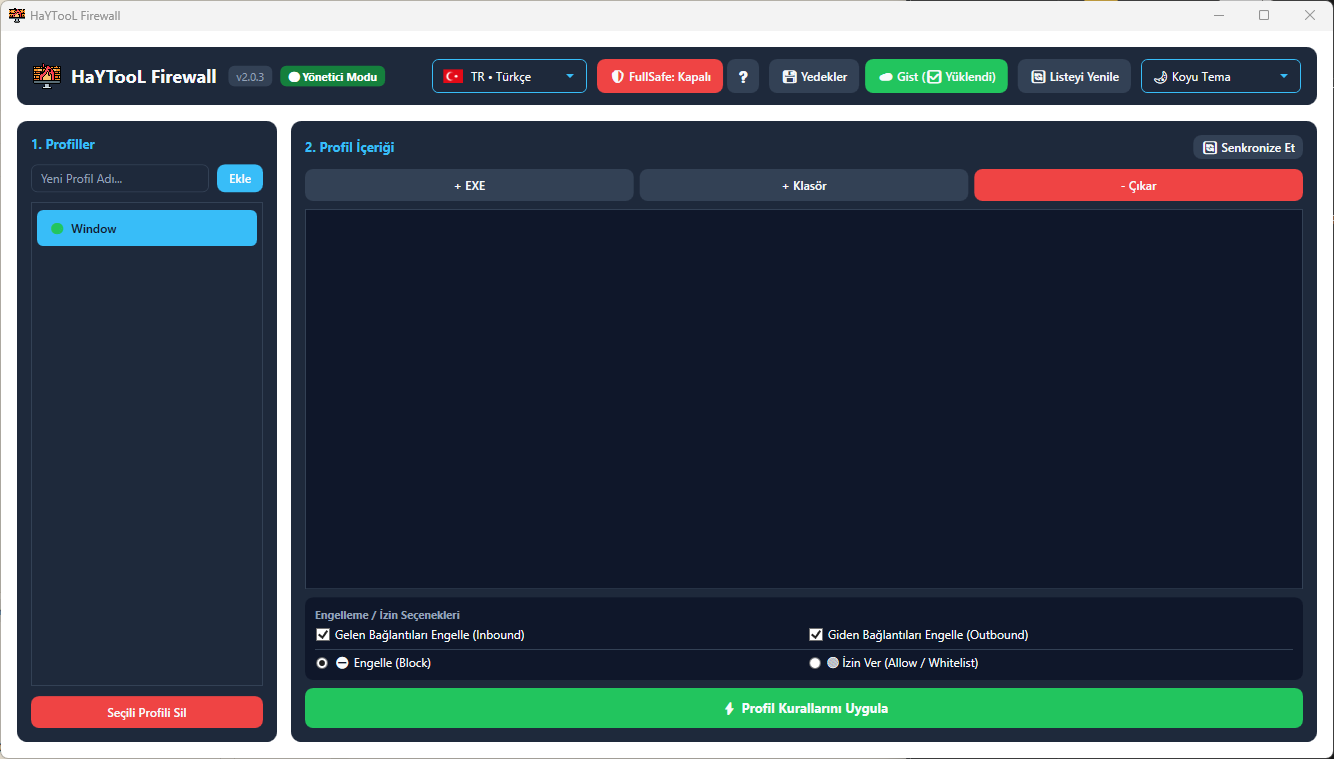
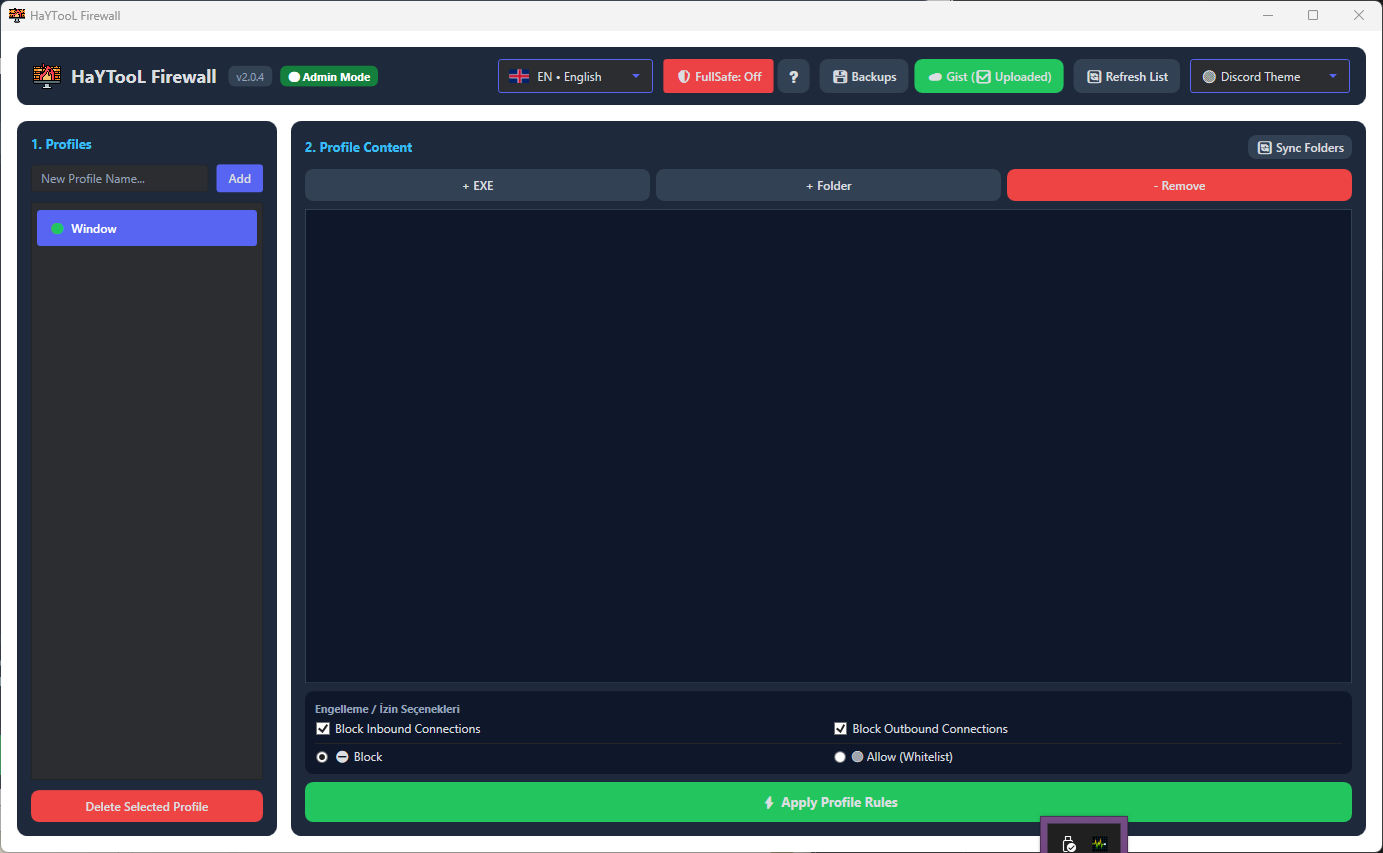
feat: release v2.0.5

Changed region(s): [[0.0, 0.0, 1.0, 1.0]]

diff --git a/UI/MainWindow.xaml b/UI/MainWindow.xaml
@@ -26,7 +26,7 @@
                     <Image Source="/Resources/firewall.png" Width="28" Height="28" Margin="0,0,10,0" VerticalAlignment="Center"/>
                     <TextBlock x:Name="txtHeaderTitle" Text="HaYTooL Firewall" FontWeight="Bold" FontSize="18" VerticalAlignment="Center"/>
                     <Border x:Name="bdVersion" Background="{StaticResource SecondaryBrush}" CornerRadius="6" Padding="8,3" Margin="12,0,0,0" VerticalAlignment="Center" Cursor="Hand" MouseLeftButtonDown="BdVersion_MouseLeftButtonDown" ToolTip="GitHub Depo Sayfasını Aç">
-                        <TextBlock Text="v2.0.4" FontSize="11" Foreground="{StaticResource MutedForegroundBrush}"/>
+                        <TextBlock Text="v2.0.5" FontSize="11" Foreground="{StaticResource MutedForegroundBrush}"/>
                     </Border>
                     <Border x:Name="bdAdminStatus" CornerRadius="6" Padding="8,3" Margin="8,0,0,0" VerticalAlignment="Center">
                         <TextBlock x:Name="txtAdminStatus" Text="🟢 Yönetici Modu" FontSize="11" FontWeight="Bold"/>
@@ -91,7 +91,7 @@
                         </Grid.ColumnDefinitions>
                         <Grid Grid.Column="0" Margin="0,0,8,0">
                             <TextBox x:Name="txtNewCategory" Padding="8,5"/>
-                            <TextBlock Text="Yeni Profil Adı..." IsHitTestVisible="False"
+                            <TextBlock x:Name="txtNewCategoryPlaceholder" Text="Yeni Profil Adı..." IsHitTestVisible="False"
                                        Foreground="{StaticResource MutedForegroundBrush}" Margin="10,0,0,0" VerticalAlignment="Center">
                                 <TextBlock.Style>
                                     <Style TargetType="TextBlock">

diff --git a/Core/I18n/LanguageManager.cs b/Core/I18n/LanguageManager.cs
@@ -100,7 +100,15 @@ namespace GuvenlikDuvarim.Core.I18n
                 ["WarnPanel2FoldersOnly"] = "Profil İçeriği alanı yalnızca Klasörleri kabul etmektedir.\n\n.EXE dosyalarını eklemek için lütfen sağ taraftaki '3. Aktif Engelleme Listesi' alanına sürükleyin.",
                 ["WarnPanel3ExesOnly"] = "Aktif Engelleme Listesi alanı yalnızca doğrudan .EXE dosyalarını kabul etmektedir.\n\nKlasör eklemek için lütfen sol taraftaki '2. Profil İçeriği' alanına sürükleyin.",
                 ["WarnFolderTitle"] = "Klasör Gerekli",
-                ["WarnExeTitle"] = "EXE Gerekli"
+                ["WarnExeTitle"] = "EXE Gerekli",
+
+                ["NewProfilePlaceholder"] = "Yeni Profil Adı...",
+                ["GistIdle"] = "☁ Gist",
+                ["GistUploading"] = "☁ Gist (⏳ Yükleniyor...)",
+                ["GistUploaded"] = "☁ Gist (✅ Yüklendi)",
+                ["GistError"] = "☁ Gist (❌ Hata)",
+                ["GistToolTipSuccess"] = "Otomatik Gist Yedeği Başarılı!\nGist ID: {0}",
+                ["GistToolTipError"] = "Gist Otomatik Yükleme Hatası:\n{0}"
             },
             ["EN"] = new()
             {
@@ -182,7 +190,15 @@ namespace GuvenlikDuvarim.Core.I18n
                 ["WarnPanel2FoldersOnly"] = "Profile Content area only accepts Folders.\n\nTo add .EXE files, please drag them to '3. Active Blocked Rules' on the right.",
                 ["WarnPanel3ExesOnly"] = "Active Blocked Rules area only accepts direct .EXE files.\n\nTo add folders, please drag them to '2. Profile Content' on the left.",
                 ["WarnFolderTitle"] = "Folder Required",
-                ["WarnExeTitle"] = "EXE Required"
+                ["WarnExeTitle"] = "EXE Required",
+
+                ["NewProfilePlaceholder"] = "New Profile Name...",
+                ["GistIdle"] = "☁ Gist",
+                ["GistUploading"] = "☁ Gist (⏳ Uploading...)",
+                ["GistUploaded"] = "☁ Gist (✅ Uploaded)",
+                ["GistError"] = "☁ Gist (❌ Error)",
+                ["GistToolTipSuccess"] = "Automatic Gist Backup Successful!\nGist ID: {0}",
+                ["GistToolTipError"] = "Gist Automatic Backup Error:\n{0}"
             },
             ["ES"] = new()
             {
@@ -263,7 +279,15 @@ namespace GuvenlikDuvarim.Core.I18n
                 ["WarnPanel2FoldersOnly"] = "El área de Contenido del Perfil solo acepta Carpetas.\n\nPara agregar archivos .EXE, arrástrelos a '3. Reglas Bloqueadas Activas' a la derecha.",
                 ["WarnPanel3ExesOnly"] = "El área de Reglas Bloqueadas Activas solo acepta archivos .EXE directos.\n\nPara agregar carpetas, arrástrelas a '2. Contenido del Perfil' a la izquierda.",
                 ["WarnFolderTitle"] = "Carpeta Requerida",
-                ["WarnExeTitle"] = "EXE Requerido"
+                ["WarnExeTitle"] = "EXE Requerido",
+
+                ["NewProfilePlaceholder"] = "Nuevo Nombre de Perfil...",
+                ["GistIdle"] = "☁ Gist",
+                ["GistUploading"] = "☁ Gist (⏳ Subiendo...)",
+                ["GistUploaded"] = "☁ Gist (✅ Subido)",
+                ["GistError"] = "☁ Gist (❌ Error)",
+                ["GistToolTipSuccess"] = "¡Copia de seguridad Gist exitosa!\nGist ID: {0}",
+                ["GistToolTipError"] = "Error de copia de seguridad Gist:\n{0}"
             },
             ["DE"] = new()
             {
@@ -339,7 +363,15 @@ namespace GuvenlikDuvarim.Core.I18n
                 ["ColDirection"] = "Richtung",
                 ["ColBackupName"] = "Sicherungsname",
                 ["ColBackupDate"] = "Datum / Zeit",
-                ["ColBackupSize"] = "Größe"
+                ["ColBackupSize"] = "Größe",
+
+                ["NewProfilePlaceholder"] = "Neuer Profilname...",
+                ["GistIdle"] = "☁ Gist",
+                ["GistUploading"] = "☁ Gist (⏳ Hochladen...)",
+                ["GistUploaded"] = "☁ Gist (✅ Hochgeladen)",
+                ["GistError"] = "☁ Gist (❌ Fehler)",
+                ["GistToolTipSuccess"] = "Automatisches Gist-Backup erfolgreich!\nGist ID: {0}",
+                ["GistToolTipError"] = "Fehler beim automatischen Gist-Backup:\n{0}"
             },
             ["PT"] = new()
             {
@@ -415,7 +447,15 @@ namespace GuvenlikDuvarim.Core.I18n
                 ["ColDirection"] = "Direção",
                 ["ColBackupName"] = "Nome do Backup",
                 ["ColBackupDate"] = "Data / Hora",
-                ["ColBackupSize"] = "Tamanho"
+                ["ColBackupSize"] = "Tamanho",
+
+                ["NewProfilePlaceholder"] = "Novo Nome de Perfil...",
+                ["GistIdle"] = "☁ Gist",
+                ["GistUploading"] = "☁ Gist (⏳ Enviando...)",
+                ["GistUploaded"] = "☁ Gist (✅ Enviado)",
+                ["GistError"] = "☁ Gist (❌ Erro)",
+                ["GistToolTipSuccess"] = "Backup automático no Gist bem-sucedido!\nGist ID: {0}",
+                ["GistToolTipError"] = "Erro de backup automático no Gist:\n{0}"
             },
             ["AR"] = new()
             {
@@ -460,6 +500,11 @@ namespace GuvenlikDuvarim.Core.I18n
                 ["CtxRuleDelete"] = "🗑 حذف القواعد المحددة",
                 ["CtxRuleOpenLocation"] = "📂 فتح موقع الملف/المجلد",
 
+                ["WarnPanel2FoldersOnly"] = "محتوى الملف الشخصي يقبل المجلدات فقط.",
+                ["WarnPanel3ExesOnly"] = "قواعد الحظر النشطة تقبل ملفات EXE فقط.",
+                ["WarnFolderTitle"] = "المجلد مطلوب",
+                ["WarnExeTitle"] = "EXE مطلوب",
+
                 ["GistTitle"] = "☁ النسخ الاحتياطي السحابي GitHub Gist",
                 ["GistHowToUse"] = "💡 كيف تستخدمه؟\n• يتطلب رمز وصول شخصي PAT من GitHub.\n• النقر على رفع يصدر ملفاتك إلى Gist.\n• لاستعادتها على جهاز آخر، الصق Gist ID واضغط تنزيل.",
                 ["GistPatTokenLabel"] = "رمز الوصول الشخصي لـ GitHub (PAT):",
@@ -491,7 +536,15 @@ namespace GuvenlikDuvarim.Core.I18n
                 ["ColDirection"] = "الاتجاه",
                 ["ColBackupName"] = "اسم ملف النسخة",
                 ["ColBackupDate"] = "التاريخ / الوقت",
-                ["ColBackupSize"] = "الحجم"
+                ["ColBackupSize"] = "الحجم",
+
+                ["NewProfilePlaceholder"] = "اسم الملف الشخصي الجديد...",
+                ["GistIdle"] = "☁ Gist",
+                ["GistUploading"] = "☁ Gist (⏳ جاري الرفع...)",
+                ["GistUploaded"] = "☁ Gist (✅ تم الرفع)",
+                ["GistError"] = "☁ Gist (❌ خطأ)",
+                ["GistToolTipSuccess"] = "تم النسخ الاحتياطي التلقائي بنجاح!\nGist ID: {0}",
+                ["GistToolTipError"] = "خطأ في النسخ الاحتياطي التلقائي:\n{0}"
             },
             ["RU"] = new()
             {
@@ -567,7 +620,15 @@ namespace GuvenlikDuvarim.Core.I18n
                 ["ColDirection"] = "Направление",
                 ["ColBackupName"] = "Имя файла бэкапа",
                 ["ColBackupDate"] = "Дата / Время",
-                ["ColBackupSize"] = "Размер"
+                ["ColBackupSize"] = "Размер",
+
+                ["NewProfilePlaceholder"] = "Новое имя профиля...",
+                ["GistIdle"] = "☁ Gist",
+                ["GistUploading"] = "☁ Gist (⏳ Загрузка...)",
+                ["GistUploaded"] = "☁ Gist (✅ Загружено)",
+                ["GistError"] = "☁ Gist (❌ Ошибка)",
+                ["GistToolTipSuccess"] = "Автоматическое резервное копирование успешно!\nGist ID: {0}",
+                ["GistToolTipError"] = "Ошибка автоматического резервного копирования:\n{0}"
             }
         };
 

diff --git a/UI/MainWindow.xaml.cs b/UI/MainWindow.xaml.cs
@@ -22,6 +22,36 @@ namespace GuvenlikDuvarim.UI
         private AppSettings _settings = new();
         private List<FirewallRuleInfo> _allActiveRules = new();
 
+        private int _gistStatusState = 0; // 0: Idle, 1: Uploading, 2: Success, 3: Error
+        private string _lastGistStatusMessage = string.Empty;
+
+        private void UpdateGistButtonUi()
+        {
+            if (btnGistBackup == null) return;
+            switch (_gistStatusState)
+            {
+                case 1:
+                    btnGistBackup.Content = LanguageManager.Get("GistUploading");
+                    break;
+                case 2:
+                    btnGistBackup.Content = LanguageManager.Get("GistUploaded");
+                    btnGistBackup.Background = new System.Windows.Media.SolidColorBrush((System.Windows.Media.Color)System.Windows.Media.ColorConverter.ConvertFromString("#22C55E"));
+                    btnGistBackup.Foreground = new System.Windows.Media.SolidColorBrush(System.Windows.Media.Colors.White);
+                    btnGistBackup.ToolTip = string.Format(LanguageManager.Get("GistToolTipSuccess"), _lastGistStatusMessage);
+                    break;
+                case 3:
+                    btnGistBackup.Content = LanguageManager.Get("GistError");
+                    btnGistBackup.Background = new System.Windows.Media.SolidColorBrush((System.Windows.Media.Color)System.Windows.Media.ColorConverter.ConvertFromString("#EF4444"));
+                    btnGistBackup.Foreground = new System.Windows.Media.SolidColorBrush(System.Windows.Media.Colors.White);
+                    btnGistBackup.ToolTip = string.Format(LanguageManager.Get("GistToolTipError"), _lastGistStatusMessage);
+                    break;
+                default:
+                    btnGistBackup.Content = LanguageManager.Get("HeaderGistBackup");
+                    btnGistBackup.ToolTip = LanguageManager.Get("GistTitle");
+                    break;
+            }
+        }
+
         public MainWindow()
         {
             InitializeComponent();
@@ -58,7 +88,8 @@ namespace GuvenlikDuvarim.UI
 
             if (_settings.AutoGistOnStartup && !string.IsNullOrWhiteSpace(_settings.GitHubToken))
             {
-                btnGistBackup.Content = "☁ Gist (⏳ Yükleniyor...)";
+                _gistStatusState = 1;
+                UpdateGistButtonUi();
                 try
                 {
                     var result = await BackupManager.UploadToGistAsync(_settings.GitHubToken, _settings.LastGistId);
@@ -68,25 +99,22 @@ namespace GuvenlikDuvarim.UI
                         _settings.LastGistUrl = result.GistUrl;
                         SaveDataToIni();
 
-                        btnGistBackup.Content = "☁ Gist (✅ Yüklendi)";
-                        btnGistBackup.Background = new System.Windows.Media.SolidColorBrush((System.Windows.Media.Color)System.Windows.Media.ColorConverter.ConvertFromString("#22C55E"));
-                        btnGistBackup.Foreground = new System.Windows.Media.SolidColorBrush(System.Windows.Media.Colors.White);
-                        btnGistBackup.ToolTip = $"Otomatik Gist Yedeği Başarılı!\nGist ID: {result.GistId}";
+                        _gistStatusState = 2;
+                        _lastGistStatusMessage = result.GistId;
+                        UpdateGistButtonUi();
                     }
                     else
                     {
-                        btnGistBackup.Content = "☁ Gist (❌ Hata)";
-                        btnGistBackup.Background = new System.Windows.Media.SolidColorBrush((System.Windows.Media.Color)System.Windows.Media.ColorConverter.ConvertFromString("#EF4444"));
-                        btnGistBackup.Foreground = new System.Windows.Media.SolidColorBrush(System.Windows.Media.Colors.White);
-                        btnGistBackup.ToolTip = $"Gist Otomatik Yükleme Hatası:\n{result.Message}";
+                        _gistStatusState = 3;
+                        _lastGistStatusMessage = result.Message;
+                        UpdateGistButtonUi();
                     }
                 }
                 catch (Exception ex)
                 {
-                    btnGistBackup.Content = "☁ Gist (❌ Hata)";
-                    btnGistBackup.Background = new System.Windows.Media.SolidColorBrush((System.Windows.Media.Color)System.Windows.Media.ColorConverter.ConvertFromString("#EF4444"));
-                    btnGistBackup.Foreground = new System.Windows.Media.SolidColorBrush(System.Windows.Media.Colors.White);
-                    btnGistBackup.ToolTip = $"Gist Otomatik Yükleme Hatası:\n{ex.Message}";
+                    _gistStatusState = 3;
+                    _lastGistStatusMessage = ex.Message;
+                    UpdateGistButtonUi();
                 }
             }
         }
@@ -207,15 +235,16 @@ namespace GuvenlikDuvarim.UI
 
             if (miItemOpenLocation != null) miItemOpenLocation.Header = LanguageManager.Get("CtxItemOpenLocation");
             if (miItemRemove != null) miItemRemove.Header = LanguageManager.Get("CtxItemRemove");
+            if (txtNewCategoryPlaceholder != null)
+                txtNewCategoryPlaceholder.Text = LanguageManager.Get("NewProfilePlaceholder");
+
             if (btnLocalBackup != null)
             {
                 btnLocalBackup.Content = LanguageManager.Get("HeaderLocalBackup");
                 btnLocalBackup.ToolTip = LanguageManager.Get("BackupTitle");
             }
-            if (btnGistBackup != null)
-            {
-                btnGistBackup.ToolTip = LanguageManager.Get("GistTitle");
-            }
+            
+            UpdateGistButtonUi();
 
             if (cmbThemeSelector != null && cmbThemeSelector.Items.Count >= 4)
             {

diff --git a/README.md b/README.md
@@ -2,7 +2,7 @@
   <img src="Resources/firewall.png" alt="HaYTooL Firewall Logo" width="128" />
 </p>
 
-<h1 align="center">🛡 HaYTooL Firewall v2.0.4</h1>
+<h1 align="center">🛡 HaYTooL Firewall v2.0.5</h1>
 
 <p align="center">
   <a href="#-english-en">🇬🇧 English Version</a> | <a href="#-türkçe-tr">🇹🇷 Türkçe Versiyon</a>
@@ -10,7 +10,7 @@
 
 <p align="center">
   <a href="https://github.com/HaYToKoRaZ/HaYTooL-Firewall/releases/latest"><img src="https://img.shields.io/badge/platform-Windows%2010%2F11%20(x64)-blue" alt="Platform" /></a>
-  <a href="https://github.com/HaYToKoRaZ/HaYTooL-Firewall/releases/latest"><img src="https://img.shields.io/badge/version-v2.0.4-brightgreen" alt="Version" /></a>
+  <a href="https://github.com/HaYToKoRaZ/HaYTooL-Firewall/releases/latest"><img src="https://img.shields.io/badge/version-v2.0.5-brightgreen" alt="Version" /></a>
   <a href="LICENSE"><img src="https://img.shields.io/badge/license-MIT-orange" alt="License" /></a>
   <a href="https://github.com/HaYToKoRaZ/HaYTooL-Firewall/releases/latest"><img src="https://img.shields.io/github/downloads/HaYToKoRaZ/HaYTooL-Firewall/total?color=success&label=Downloads" alt="GitHub Downloads" /></a>
 </p>

diff --git a/CHANGELOG.md b/CHANGELOG.md
@@ -2,6 +2,22 @@
 
 Tüm önemli değişiklikler bu dosyada belgelenmektedir. / All notable changes to this project will be documented in this file.
 
+## [v2.0.5] - 2026-08-06
+
+### 🇹🇷 Türkçe (TR)
+#### 🖼 Güncel Ekran Görüntüsü Entegrasyonu & Dinamik Çeviri İyileştirmeleri
+- **🖼 README Ekran Görüntüsü Güncellendi:** `0nogithub/screenshot.png` dosyası Git takibindeki `Resources/screenshot.png` konumuna aktarıldı ve README'deki görsel yenilendi.
+- **🌐 Canlı Dil Çevirisi Dinamikleştirildi:** `Yeni Profil Adı...` placeholder ve Gist durum butonlarının dil değişimlerinde anlık güncellenmesi sağlandı.
+
+---
+
+### 🇬🇧 English (EN)
+#### 🖼 Updated Screenshot & Dynamic Localization Enhancements
+- **🖼 README Screenshot Refreshed:** Updated `Resources/screenshot.png` with the latest UI preview.
+- **🌐 Dynamic i18n Translation:** Placeholder and Gist status button texts now update dynamically when switching languages.
+
+---
+
 ## [v2.0.4] - 2026-08-06
 
 ### 🇹🇷 Türkçe (TR)
